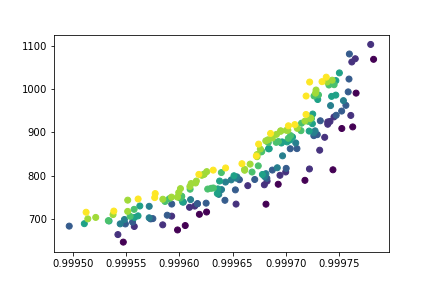
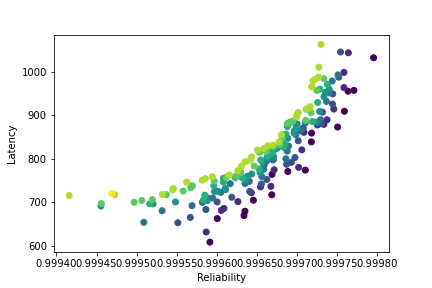
Fix labels, somme comments added

diff --git a/genetique.py b/genetique.py
@@ -25,10 +25,11 @@ def Tex(T):
     return(T.nbInstruction/T.ComputerRate)
 
 #C_ex(X) or Execution Cost
+#The division by 60 is to convert useCost(min) into useCost(sec)
 def Cex(X):
     res=0
     for DV in X:
-        res+=Tex(DV)*DV.UseCost
+        res+=Tex(DV)*DV.UseCost/60
     return(res)
 
 #F(X) or Reliability
@@ -342,6 +343,8 @@ def show_Domination_Plot_2D (population,xattribute,yattribute, save=False):
         c.append(individual.Rank)
     #initialises the plot
     plt.scatter(x,y,c=c)
+    plt.xlabel(xattribute)
+    plt.ylabel(yattribute)
     #saves the plot
     if save:
         plt.savefig(f'{save}.png')
@@ -362,15 +365,17 @@ def show_Domination_Plot(population, removeParameter=False, save= False):
 # Select and display the best solution for one of the objectives
 def display_best_solution_by_objective(solutions,objective):
     best_solution_for_objective = solutions[0]
-
+    #looks for the best solution if we want to minimize CostEx
     if objective == "CostEx":
         for solution in solutions:
             if solution.CostEx < best_solution_for_objective.CostEx:
                 best_solution_for_objective = solution
+            #case when we have an equality between to minimums
+            #in that case we try to optimize other parameters 
             elif solution.CostEx == best_solution_for_objective.CostEx:
                 if (solution.Latency < best_solution_for_objective.Latency or solution.Reliability > best_solution_for_objective.Reliability):
                     best_solution_for_objective = solution
-
+    #same for Latency
     elif objective == "Latency":
         for solution in solutions:
             if solution.Latency < best_solution_for_objective.Latency:
@@ -378,7 +383,7 @@ def display_best_solution_by_objective(solutions,objective):
             elif solution.Latency == best_solution_for_objective.Latency:
                 if (solution.CostEx < best_solution_for_objective.CostEx or solution.Reliability > best_solution_for_objective.Reliability):
                     best_solution_for_objective = solution
-
+    #same for Reliability
     elif objective == "Reliability":
         for solution in solutions:
             if solution.Reliability > best_solution_for_objective.Reliability:
@@ -391,6 +396,10 @@ def display_best_solution_by_objective(solutions,objective):
 
 #The function running the NSGA_II Algorithm, Remove parameter allows to run the simulation with one 
 #parameter less (for 2D graphs) and show convergence shows the graph for the early stages of the simulation
+#exemple: NSGA_II() will run the simulation in 3D with a plot of generation 0 and n-1
+#exemple: NSGA_II(removeParameter="CostEx") will run the simulation in 2D with a plot of generation 0 and n-1 without consedering CostEx
+#exemple: NSGA_II(removeParameter="Reliability") will run the simulation in 2D with a plot of generation 0 and n-1 without consedering Reliability
+#exemple: NSGA_II(removeParameter="Latency",show_convergence=False) will run the simulation in 2D with a plot of generation 0, 2, 4, 6, 10 and n-1 without consedering Latency
 def NSGA_II(population_size=200,nb_generations=100, removeParameter=False, show_convergence=False):
     #reads the files' data and load them in classes
     Tasks,VMs=generateTasksAndVMs()
@@ -427,7 +436,7 @@ def NSGA_II(population_size=200,nb_generations=100, removeParameter=False, show_
     #displays some data at the end of the simulation
     print("average of final generation parameters:")
     display_means(population)
-    print("exemple of some of the fittest individual:")
+    print("exemples of some of the fittest individual:")
     population[0].show()
     print(population[0].CostEx,population[0].Reliability,population[0].Latency)
     population[population_size//2].show()
@@ -450,6 +459,7 @@ def NSGA_II(population_size=200,nb_generations=100, removeParameter=False, show_
     print(best_reliability.CostEx,best_reliability.Reliability,best_reliability.Latency)
 
 #main function running several simulations
+#can be modified to run different simulations
 def main ():
     NSGA_II(removeParameter="CostEx",show_convergence=True)
     NSGA_II(removeParameter="Reliability")
